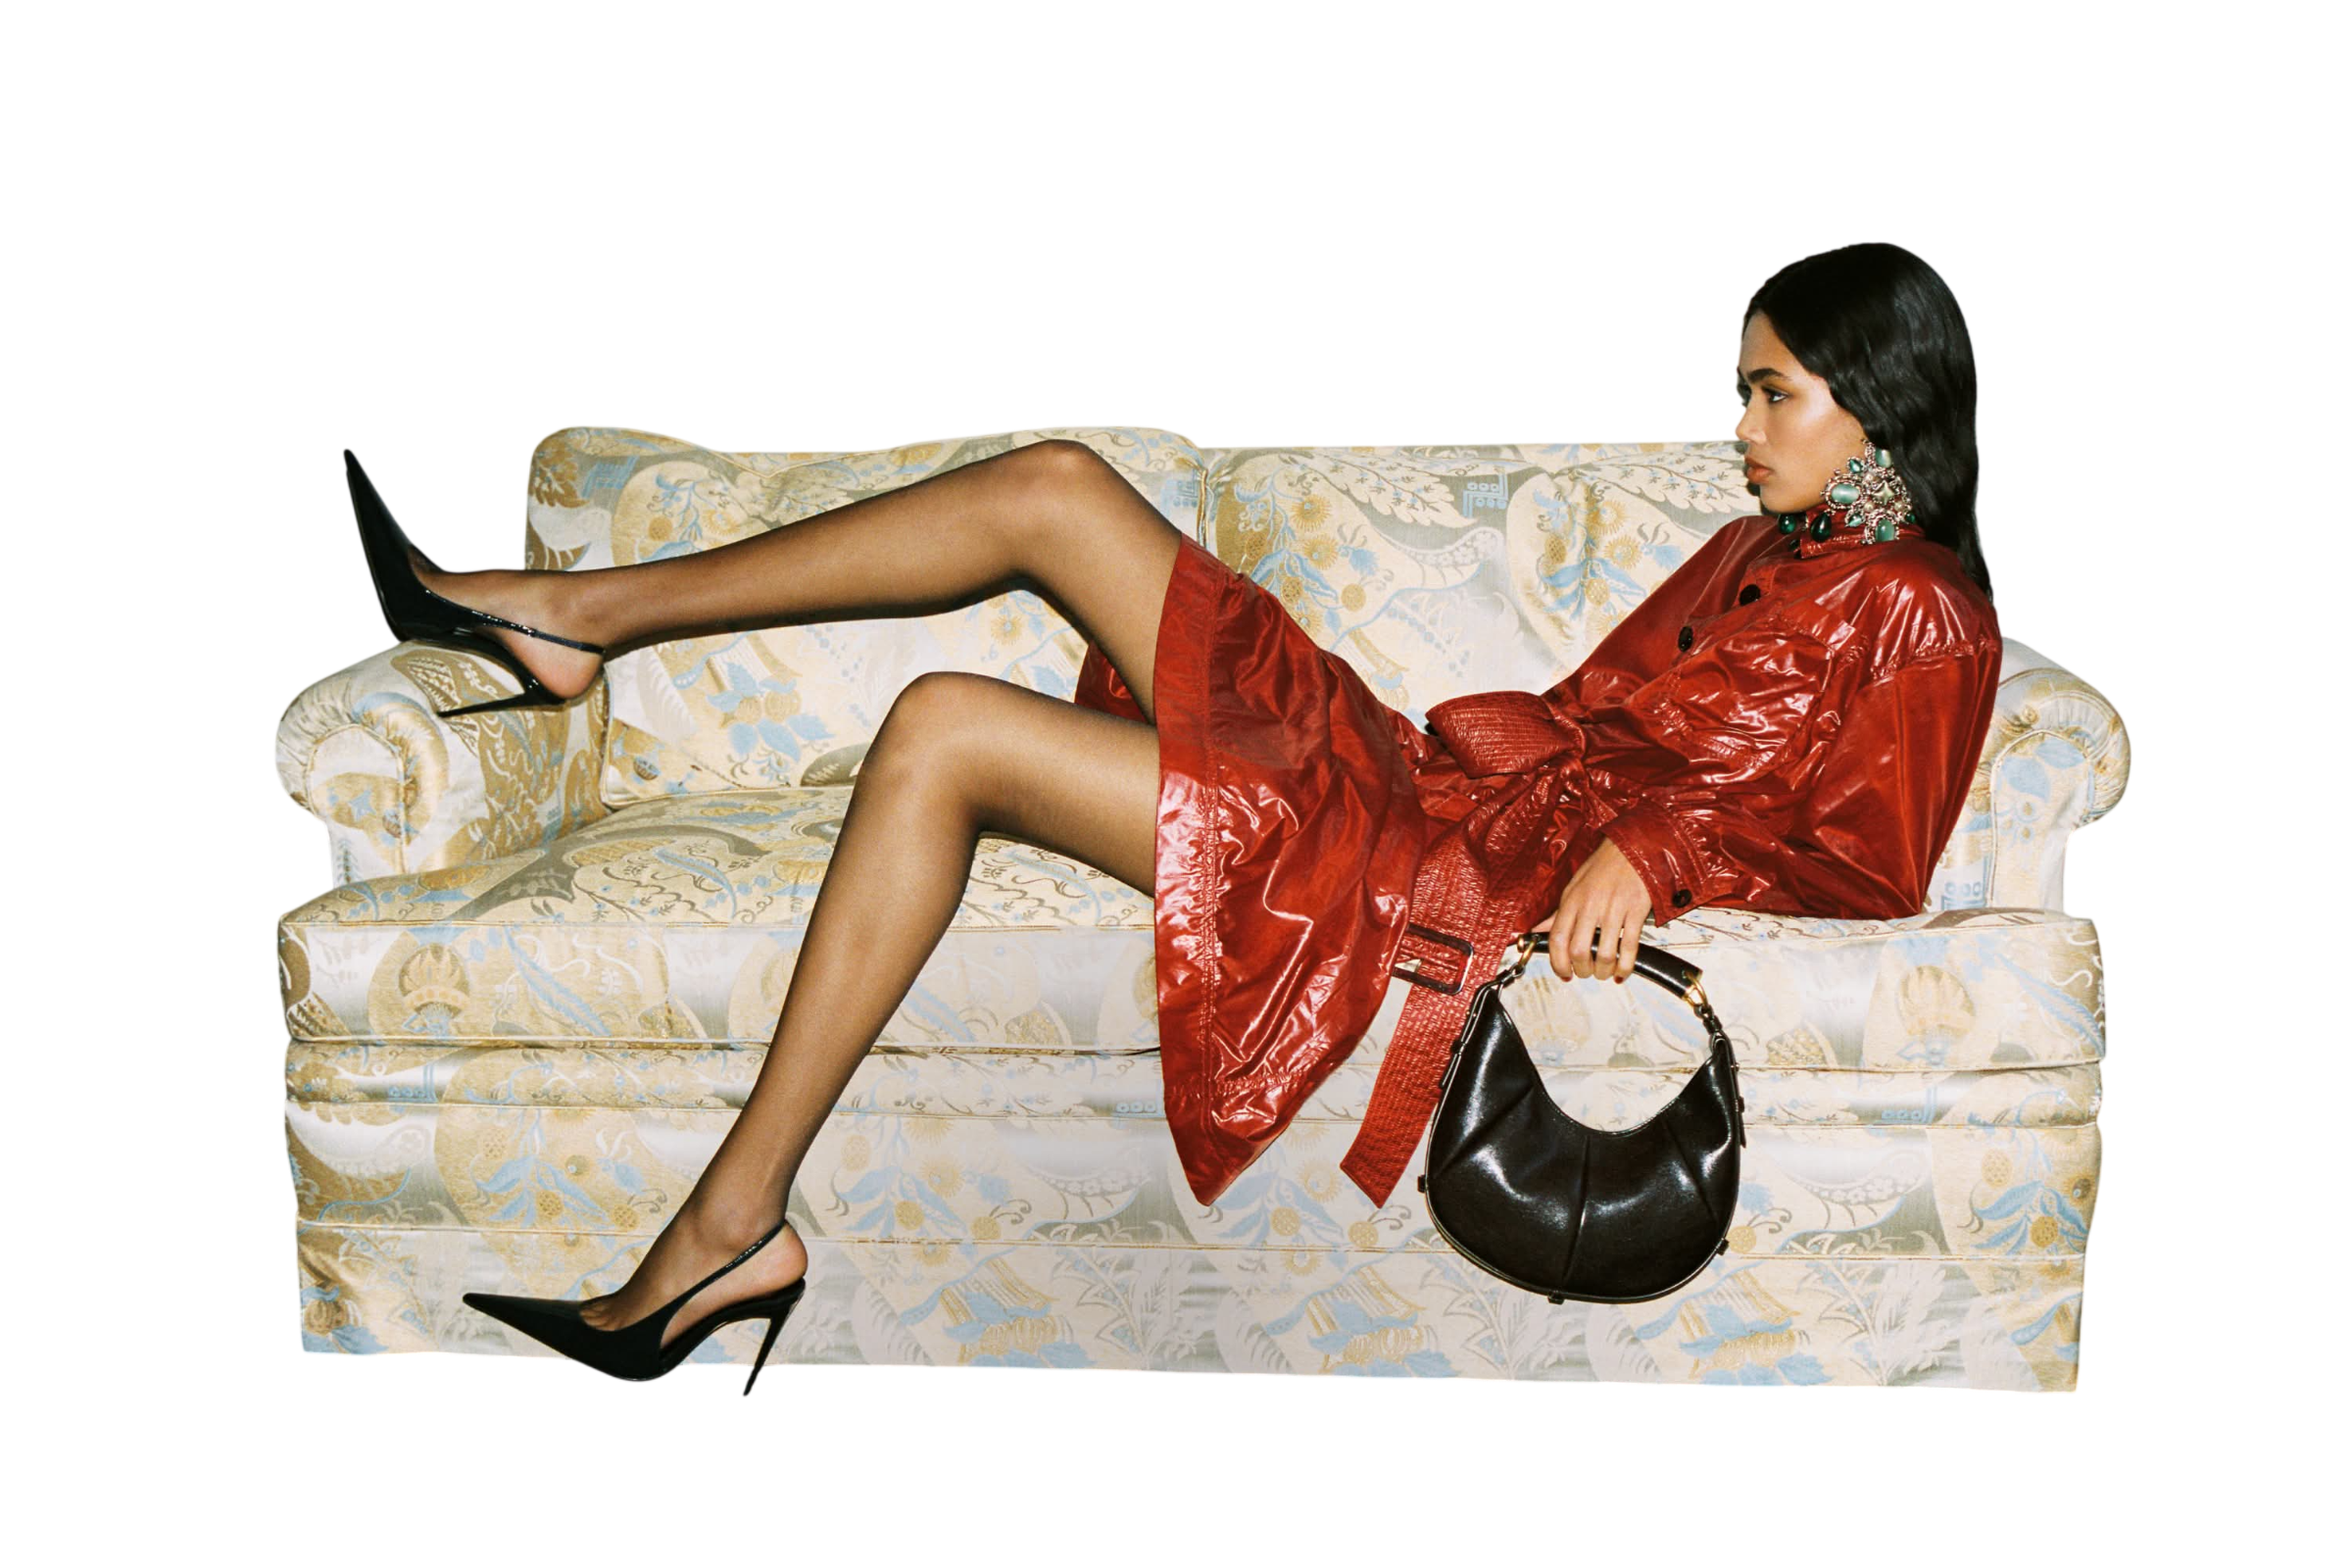
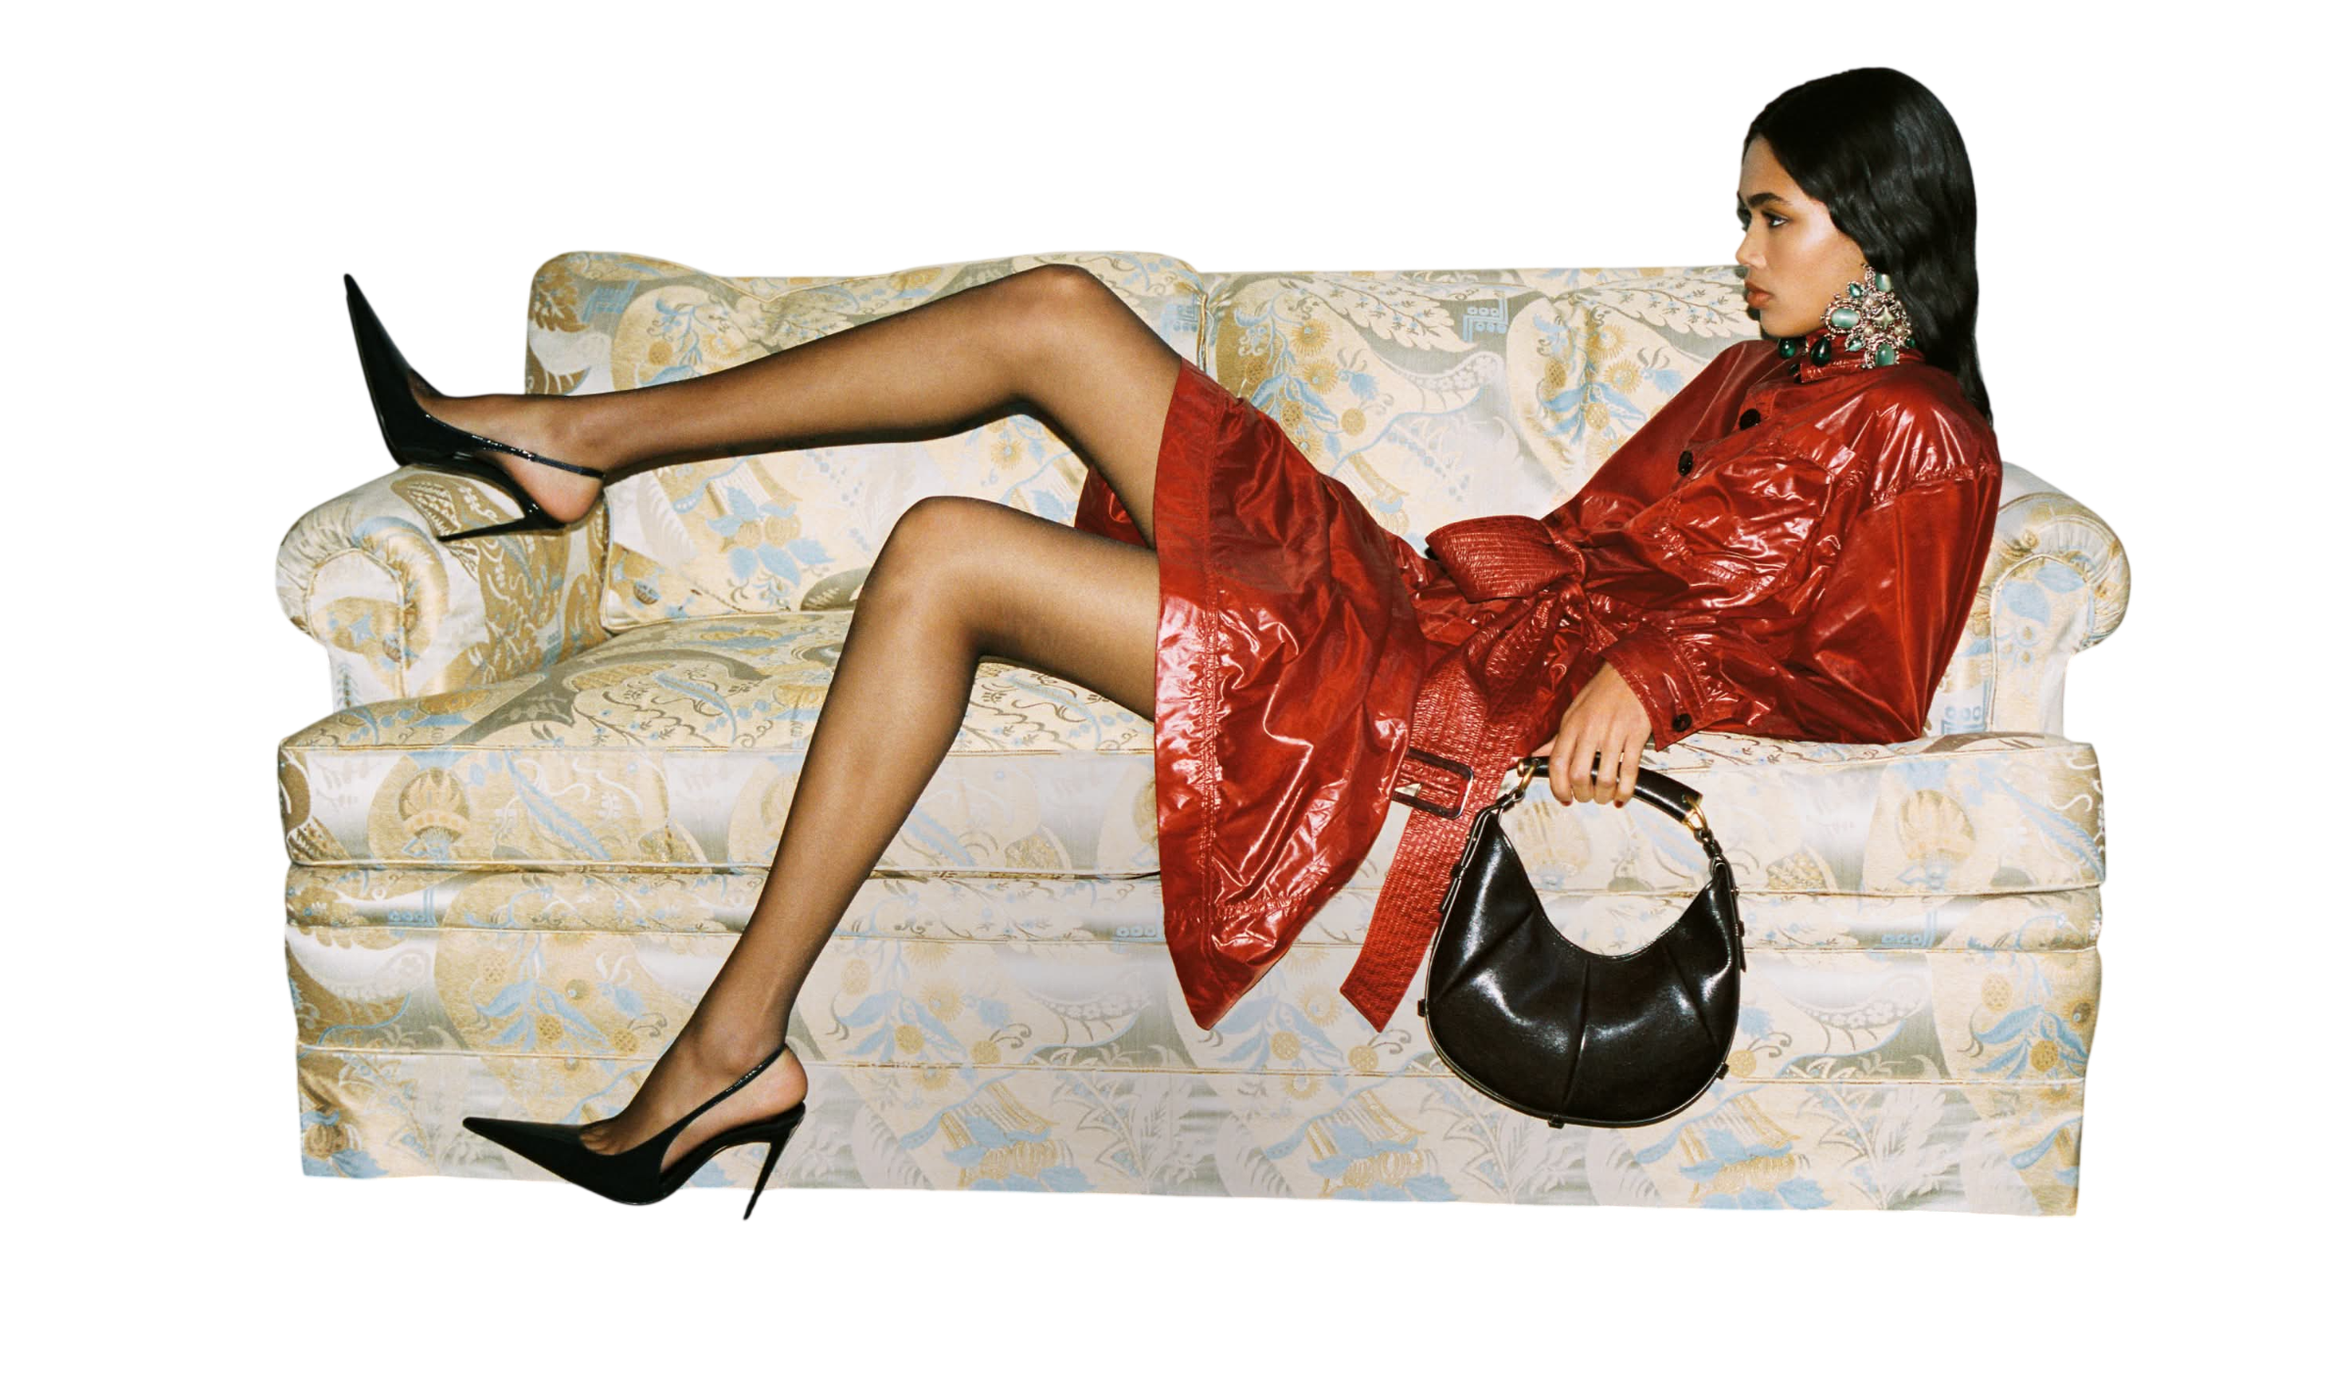
update

diff --git a/client/src/components/HeroSection/HeroSection.tsx b/client/src/components/HeroSection/HeroSection.tsx
@@ -12,41 +12,43 @@ export default function HeroSection() {
             <div className="flex flex-col min-h-screen">
                 <div className="relative pl-8">
 
-                   <div className="absolute top-[clamp(60px,20vw,140px)] z-10 flex flex-col gap-y-5">
-                     <div className="text-hero-section">
-                        <h1>SAINT</h1>
+                    <div className="absolute top-[clamp(40px,calc(-58.6px+25.28vw),200px)] z-10 flex flex-col gap-y-5
+                    lg:top-0 xl:top-[clamp(0px,calc(-136px+10.625vw),68px)]">
+                        <div className="text-hero-section">
+                            <h1>SAINT</h1>
 
-                        <h1>LAURENT</h1>
+                            <h1>LAURENT</h1>
 
-                        <h1 className="italic">PARIS</h1>
+                            <h1 className="italic">PARIS</h1>
+                        </div>
+
+                        <div>
+                            <p className="text-sm sm:text-base">SELF EXPRESSION IS<br />THE HIGHEST FORM OF
+                            <br className="md:hidden" /> LUXURY.</p>
+                        </div>
+
+                        <div className="w-[40px] h-px bg-black"></div>
+
+                        <div className="flex gap-x-2 items-center">
+                            <button
+                                onClick={() => window.open("https://www.ysl.com/en-en", "_blank")}
+                                onMouseEnter={() => setIsHovered(true)}
+                                onMouseLeave={() => setIsHovered(false)}
+                                className={`cursor-pointer text-sm sm:text-base ${!isHovered ? "underline underline-offset-5 relative" : "relative"}`}
+                            >
+                                DISCOVER MORE
+
+                                {isHovered && (
+                                    <span className='absolute left-0 bottom-0 h-[1.5px] w-full bg-black animate-[underline_.5s_ease-out_forwards]' />
+                                )}
+                            </button>
+
+                            <MoveUpRight strokeWidth={1} size={15} />
+                        </div>
+
                     </div>
 
-                    <div>
-                        <p className="text-sm">SELF EXPRESSION IS<br />THE HIGHEST FORM OF<br />LUXURY ewan.</p>
-                    </div>
-
-                    <div className="w-[40px] h-px bg-black"></div>
-                    
-                    <div className="flex gap-x-2 items-center">
-                    <button
-                        onClick={() => window.open("https://www.ysl.com/en-en", "_blank")}
-                        onMouseEnter={() => setIsHovered(true)}
-                        onMouseLeave={() => setIsHovered(false)}
-                        className={`cursor-pointer text-sm ${!isHovered ? "underline underline-offset-5 relative" : "relative"}`}
-                    >
-                        DISCOVER MORE
-
-                        {isHovered && (
-                            <span className='absolute left-0 bottom-0 h-[1.5px] w-full bg-black animate-[underline_.5s_ease-out_forwards]' />
-                        )}
-                    </button>
-
-                    <MoveUpRight strokeWidth={1} size={15} />
-                </div>
-
-                   </div>
-
-                    <div className="relative ml-auto -top-5 -right-10 w-[80%] md:hidden">
+                    <div className="relative ml-auto -top-12 -right-10 w-[80%] lg:hidden">
                         <img src={ModelMobile} alt="Model Image" className="w-full object-cover" />
 
                         <div
@@ -57,7 +59,9 @@ export default function HeroSection() {
                              via-[#f5ece1]/30 to-transparent" />
                     </div>
 
-                    <img src={Model} alt="Model Image" className="hidden lg:block w-full" />
+                    <div className="relative ml-auto right-0 -top-7 w-[70%]">
+                        <img src={Model} alt="Model Image" className="hidden lg:block w-full object-cover" />
+                    </div>
                 </div>
 
                 <div className="w-full h-px bg-black"></div>

diff --git a/client/src/styles/index.css b/client/src/styles/index.css
@@ -36,6 +36,6 @@ body {
 }
 
 .text-hero-section {
-  @apply font-primary font-medium leading-none;
-  font-size: clamp(40px, 10vw, 88px);
+  @apply font-primary font-medium leading-none lg:leading-[0.9] text-[clamp(40px,10vw,100px)]
+  lg:text-[clamp(70px,7.8vw,160px)];
 }
